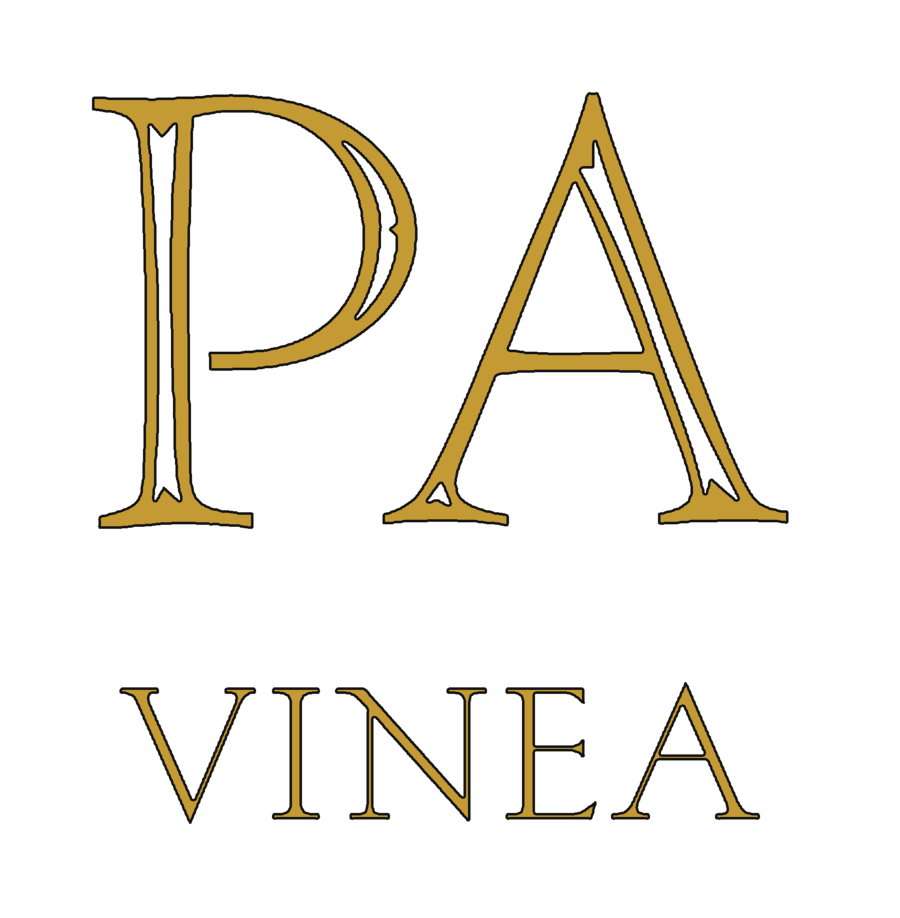
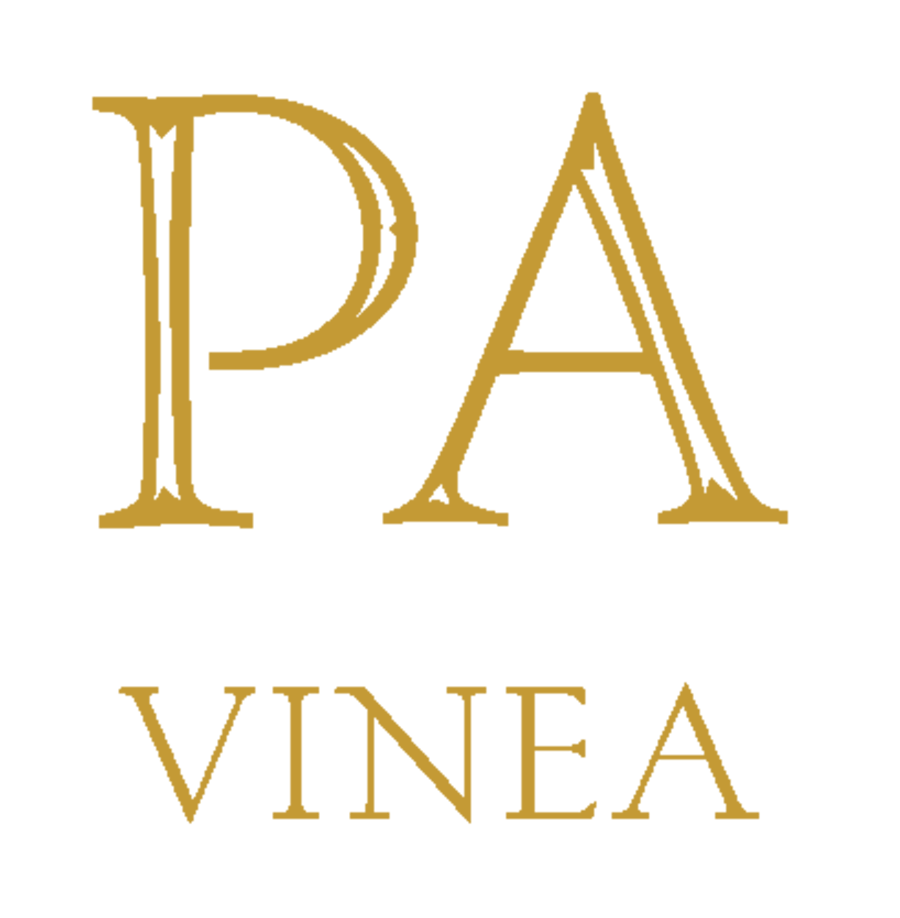
fix: gold wordmark with CSS black outline drop-shadow

diff --git a/artifacts/wine-club/src/app/members/pa-vinea/page.tsx b/artifacts/wine-club/src/app/members/pa-vinea/page.tsx
@@ -48,7 +48,11 @@ export default function PAVineaPage() {
           <img
             src="/pa-wordmark-v2.png"
             alt="PA Vinea"
-            style={{ width: "min(240px, 60vw)", height: "auto" }}
+            style={{
+              width: "min(240px, 60vw)",
+              height: "auto",
+              filter: "drop-shadow(1px 0px 0 #111) drop-shadow(-1px 0px 0 #111) drop-shadow(0px 1px 0 #111) drop-shadow(0px -1px 0 #111)",
+            }}
           />
         </div>
 
